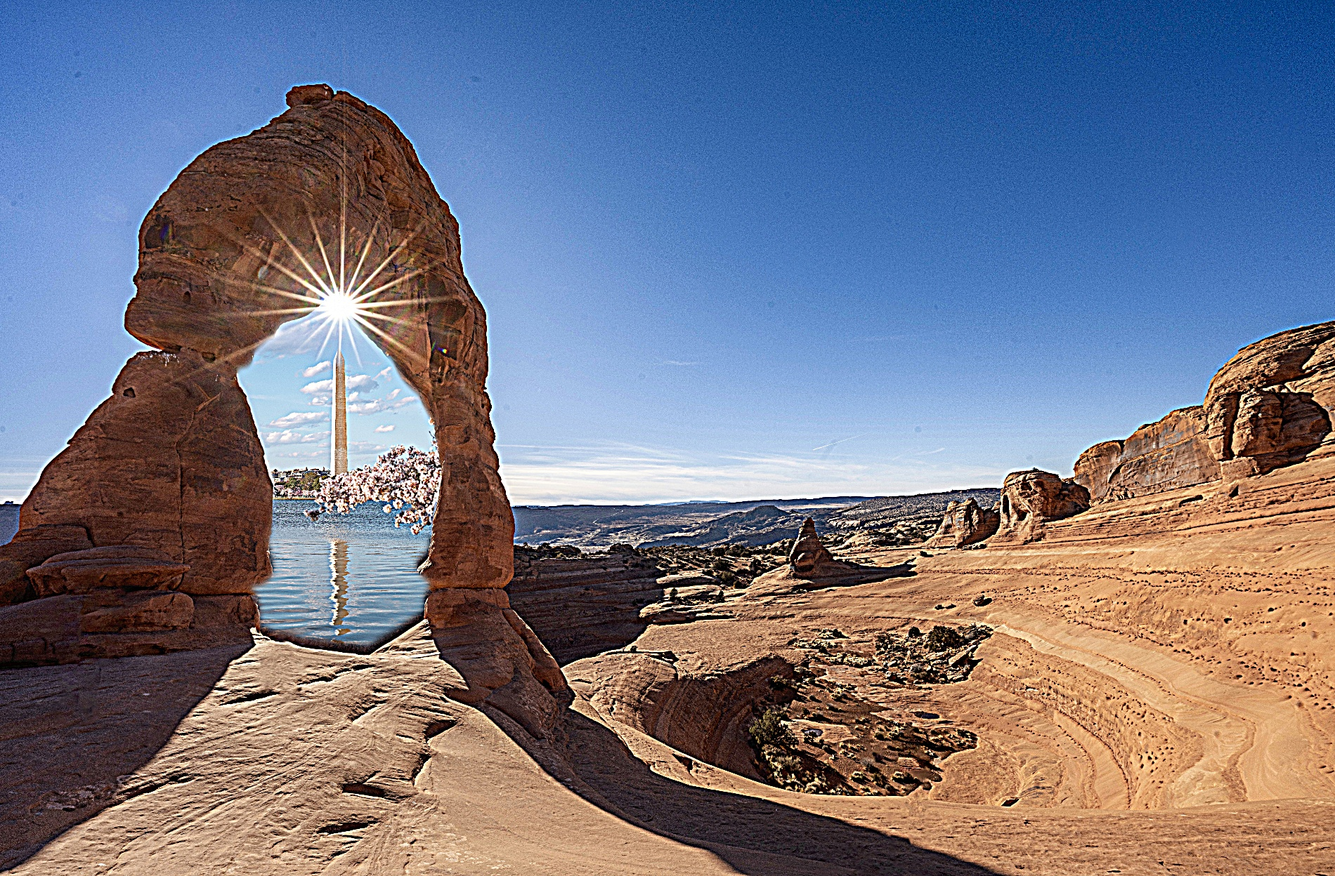
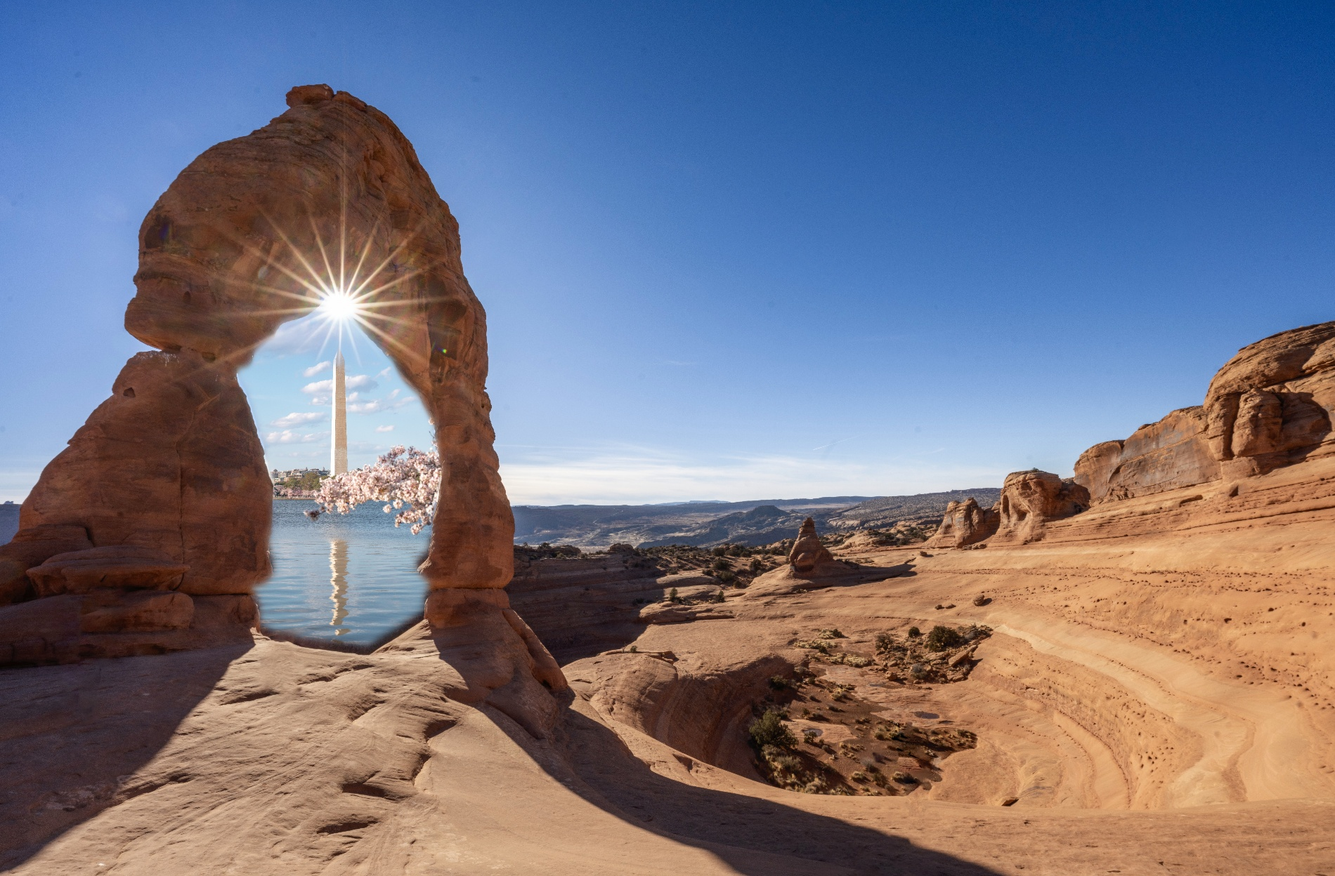
project2 update

Changed region(s): [[0.0, 0.0938, 1.0, 1.0], [0.0, 0.7812, 0.0311, 0.8125]]

diff --git a/CS180/Project2/index.html b/CS180/Project2/index.html
@@ -449,8 +449,9 @@
 										<p>Finally, we use image blending to get the desired result:</p>
 
 										<div style="display: flex; align-items: center; justify-content: center;">
-											<span class="image featured"><img src="./images/fused_arch.jpg" alt="" /></span>
+											<span class="image featured"><img src="./images/fused_arch_e.jpg" alt="" /></span>
 										</div>
+										<p>(Edge enhanced for better visual effects)</p>
 										<p>The intermediate laplacian stack of this blending is also shown below:</p>
 
 										<div style="display: flex; align-items: center; justify-content: center;">
